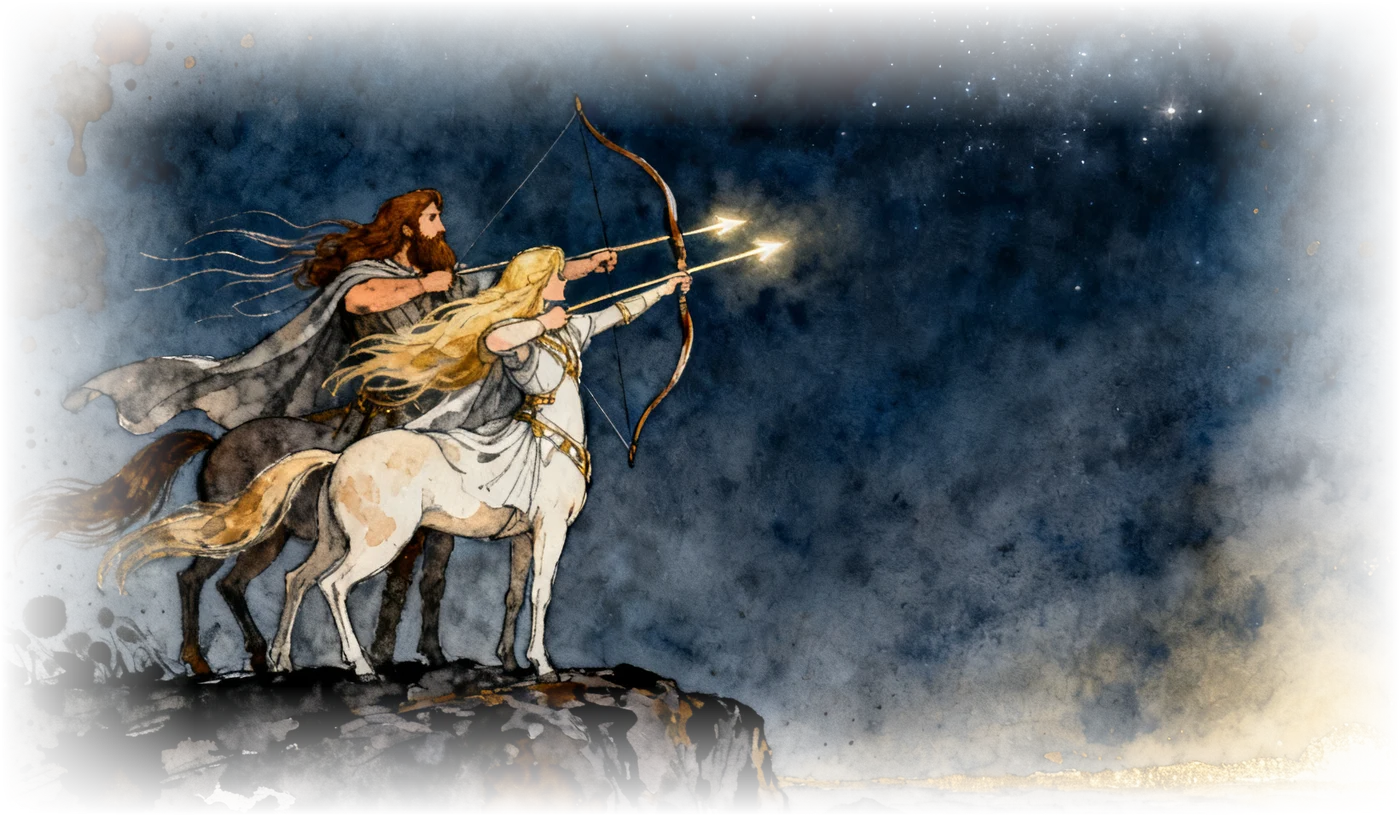
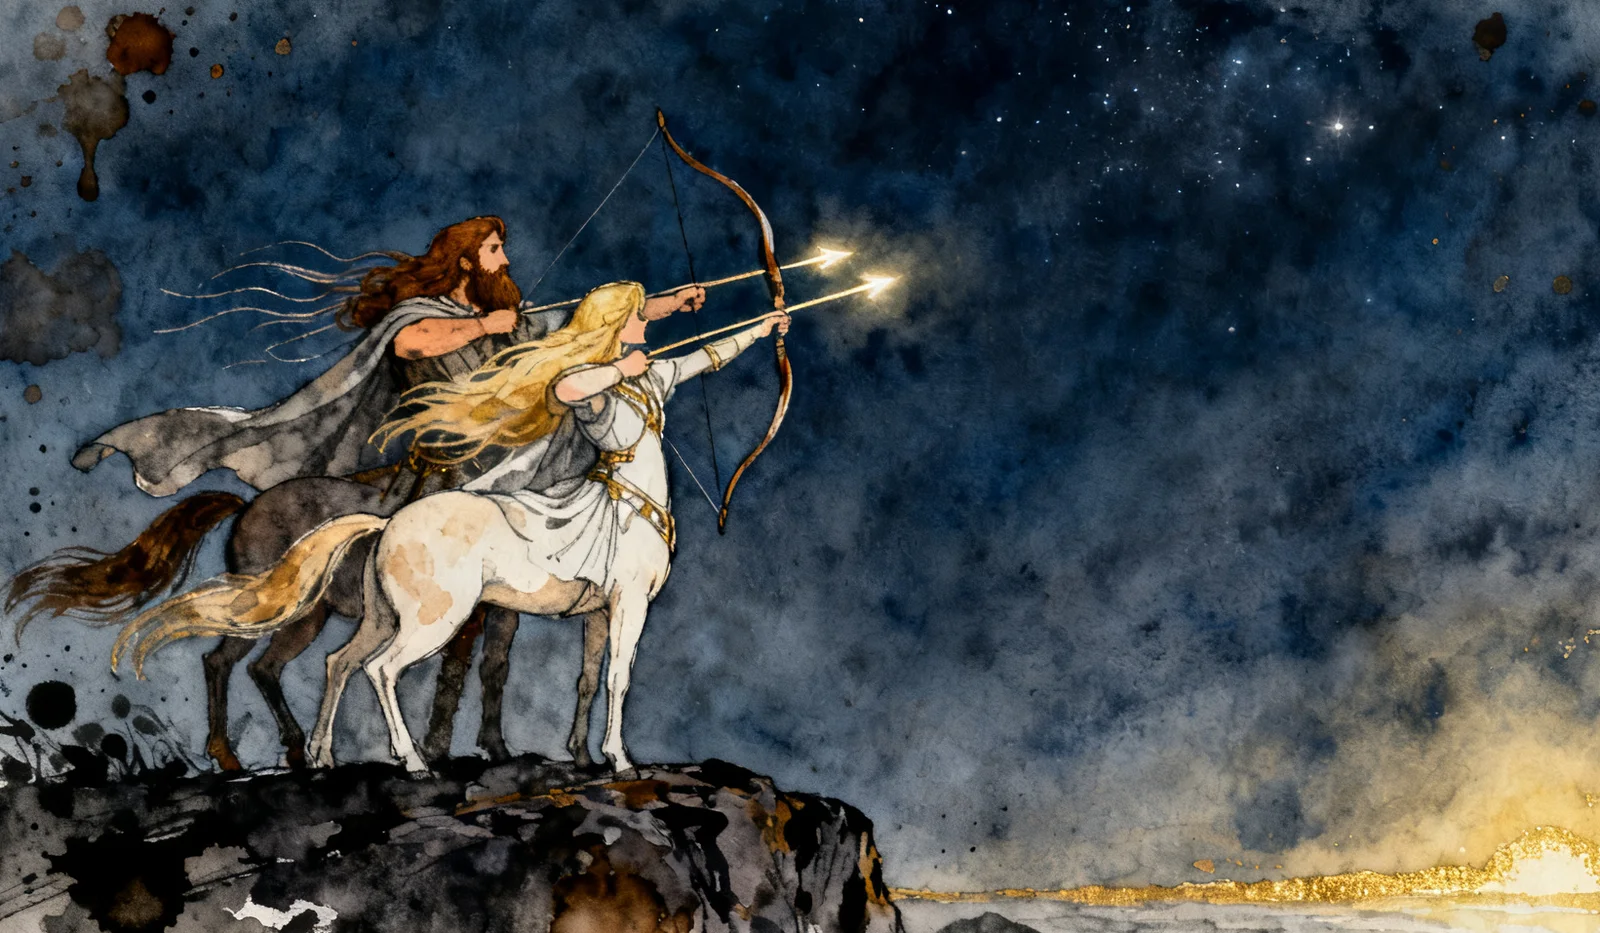
Hero: Akashic wash fills the whole panel; beam reads it as fog; mobile lower-half dissolve

diff --git a/index.html b/index.html
@@ -279,14 +279,33 @@ header.scrolled{
 .hero-moon:hover svg{filter:drop-shadow(0 0 14px rgba(246,200,137,.35))}
 @media(max-width:900px){.hero-moon{right:50%;top:11%;transform:translateX(50%) scale(.8);transform-origin:top center}}
 
-/* ── the archers — Akashic Sketch, loosing arrows over the horizon ── */
+/* ── the archers — Akashic Sketch wash fills the whole night;
+      the beam reads it like fog ── */
 .archers-scene{
-  position:absolute;left:0;bottom:0;width:46%;max-width:700px;
-  z-index:1;pointer-events:none;
+  position:absolute;inset:0;z-index:0;pointer-events:none;overflow:hidden;
 }
-.archers-scene img{width:100%;height:auto;display:block;opacity:.96}
-.archers-scene svg{position:absolute;inset:0;width:100%;height:100%;overflow:visible}
-@media(max-width:900px){.archers-scene{width:88%;opacity:.85}}
+.archers-scene img{
+  width:100%;height:100%;object-fit:cover;object-position:left bottom;display:block;
+}
+/* deepen the wash where the words live, and up at the nav */
+.archers-scene::after{
+  content:"";position:absolute;inset:0;
+  background:
+    linear-gradient(180deg, rgba(7,12,21,.72) 0%, rgba(7,12,21,.25) 26%, transparent 48%),
+    linear-gradient(105deg, rgba(7,12,21,.72) 0%, rgba(7,12,21,.42) 34%, transparent 62%);
+}
+.archers-scene svg{position:absolute;inset:0;width:100%;height:100%}
+@media(max-width:900px){
+  .archers-scene img{
+    position:absolute;left:0;bottom:0;width:100%;height:56%;
+    object-position:left bottom;
+    -webkit-mask-image:linear-gradient(180deg,transparent,#000 30%);
+    mask-image:linear-gradient(180deg,transparent,#000 30%);
+  }
+  .archers-scene::after{
+    background:linear-gradient(180deg, rgba(7,12,21,.5) 0%, transparent 40%);
+  }
+}
 
 @media (prefers-reduced-motion: reduce){
   .arrow-comet{display:none}
@@ -798,7 +817,7 @@ footer .eightyeight{font-size:280px;right:-30px;bottom:-70px;opacity:.7}
   <!-- the wayshowers — two Sagittarian archers, Akashic Sketch, loosing arrows over the horizon -->
   <div class="archers-scene" aria-hidden="true">
     <img src="hero-archers.webp" alt="" loading="eager" decoding="async">
-    <svg viewBox="0 0 1400 816" preserveAspectRatio="xMidYMid meet">
+    <svg viewBox="0 0 1400 816" preserveAspectRatio="xMinYMax slice">
       <defs>
         <filter id="cometGlow" x="-80%" y="-80%" width="260%" height="260%">
           <feGaussianBlur stdDeviation="1.6" result="b"/>